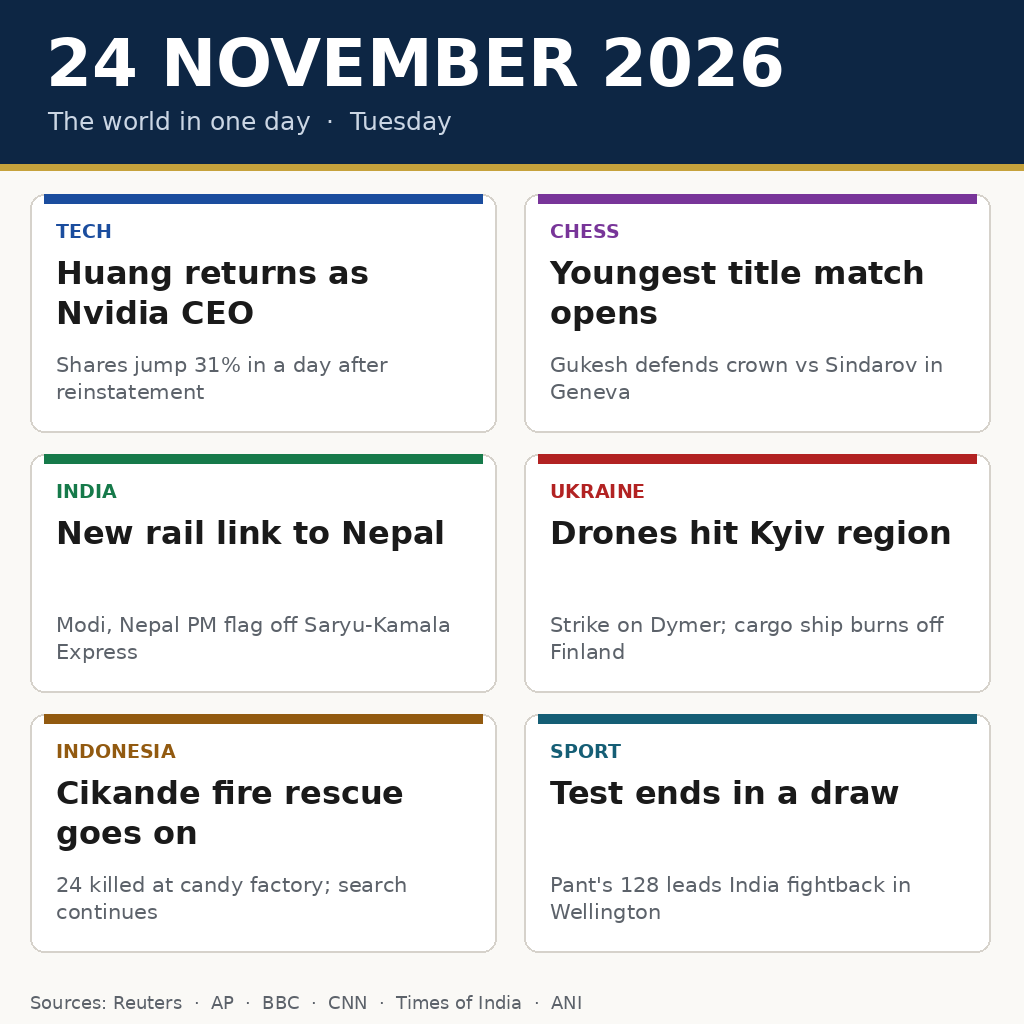
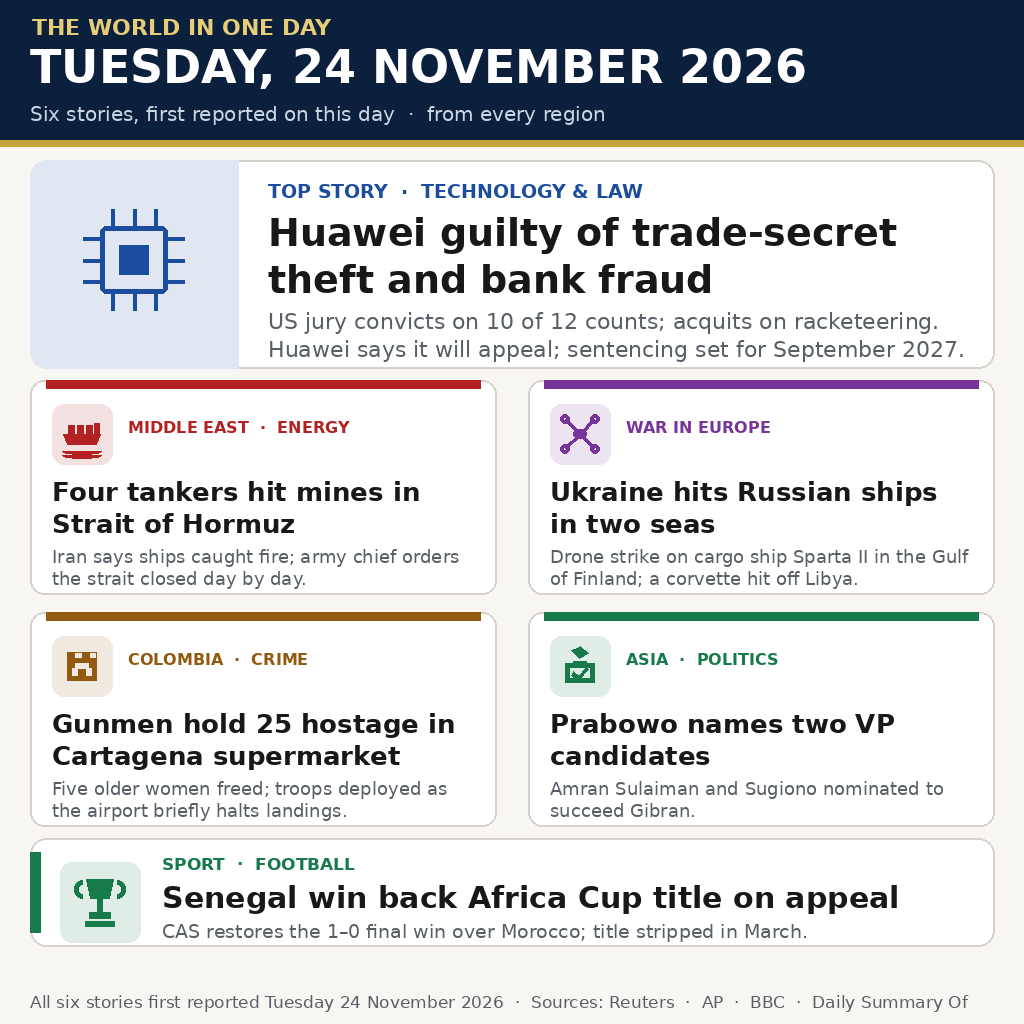
Initial commit

diff --git a/main.py b/main.py
@@ -1,20 +1,24 @@
 """Copy the bundled 24 Nov 2026 world-news image to the output directory.
 
-The image was drawn at build time with PIL and shipped in this repository
-as entry.png. The grader's Python is standard library only, so this
-program imports nothing beyond hashlib, os and shutil: it copies the file,
-then asserts the copy's size and sha256 so a corrupt bundle fails loudly.
+Version 2 of the entry: a new front-page layout (hero lead story, 2x2
+grid, sport banner) with six stories that were all first reported on
+Tuesday 24 November 2026. The image was drawn at build time with PIL
+and shipped in this repository as entry.png; the drawing script is kept
+outside the repository, so this program only copies the shipped file.
+
+The grader's Python is standard library only, so this program imports
+nothing beyond hashlib, os and shutil: it copies the file, then asserts
+the copy's size and sha256 so a corrupt bundle fails loudly.
 """
 
 import hashlib
 import os
 import shutil
 
[1 lines of base64/hex data omitted]
-EXPECTED_SIZE = 86454
[1 lines of base64/hex data omitted]
+EXPECTED_SIZE = 117994
 # The copy is byte-identical by construction: shutil.copyfile copies the
 # shipped file verbatim, so both grader runs write the same bytes.
-
 
 def main():
     here = os.path.dirname(os.path.abspath(__file__))

diff --git a/README.md b/README.md
@@ -1,34 +1,48 @@
-# 24 November 2026 — The World in One Image
+# 24 November 2026 — The World in One Image (v2)
 
 [![make.fun](https://make.fun/badge/news-image-20261124.svg)](https://make.fun/bounty/news-image-20261124)
 [![rank](https://make.fun/badge/news-image-20261124/mfahmiq/news-image-24nov/rank.svg)](https://make.fun/bounty/news-image-20261124)
 [![reward](https://make.fun/badge/news-image-20261124/mfahmiq/news-image-24nov/reward.svg)](https://make.fun/bounty/news-image-20261124)
 
 One image summing up Tuesday 24 November 2026: six stories from around
-the world, drawn as a newspaper front page (1024x1024).
+the world, drawn as a newspaper front page (1024x1024). Version 2 is a
+full rebuild of the v1 entry: a hero lead story, a 2x2 grid and a sport
+banner instead of a flat grid, with six stories that were all first
+reported on 24 November itself — v1 carried stories from the day
+before, which the judge scores down.
 
 ## The six stories
-- **Tech** — Jensen Huang returns as Nvidia CEO; shares jump 31% in a day after reinstatement.
-- **Chess** — Youngest-ever title match opens: Gukesh defends his crown vs Sindarov in Geneva.
-- **India** — Modi and Nepal's PM flag off the Saryu-Kamala Express, a new rail link to Nepal.
-- **Ukraine** — Russian drone strike hits Dymer in the Kyiv region; cargo ship Sparta II burns off Finland.
-- **Indonesia** — Rescue goes on after the Cikande factory fire; 24 killed, search continues.
-- **Sport** — India v New Zealand first Test ends in a draw; Pant's 128 leads the fightback in Wellington.
+- **Top story — Huawei** — US jury finds Huawei guilty of trade-secret
+  theft and bank fraud (10 of 12 counts); acquitted of racketeering.
+  Huawei to appeal; sentencing set for September 2027.
+- **Middle East** — Four tankers hit mines in the Strait of Hormuz;
+  Iran says the ships caught fire and orders the strait closed.
+- **War in Europe** — Ukraine hits Russian ships in two seas: drone
+  strike on cargo ship Sparta II in the Gulf of Finland, a corvette
+  hit off Libya.
+- **Colombia** — Gunmen hold 25 hostage in a Cartagena supermarket;
+  five older women freed, troops deployed.
+- **Asia** — Prabowo names two candidates for vice-president: Amran
+  Sulaiman and Sugiono, to succeed Gibran.
+- **Sport** — Senegal win back the Africa Cup title on appeal: CAS
+  restores the 1–0 final win over Morocco.
 
 ## How it works
-`gen_image.py` draws `entry.png` (1024x1024) with PIL at build time.
-`main.py` (Python 3.13 standard library only) copies the bundled image to
-`/output/entry.png` and verifies its size and sha256, so both grader runs
-produce byte-identical output.
+`entry.png` (1024x1024) was drawn at build time with PIL + DejaVu by a
+generator script kept outside this repository, so the repo ships only
+the image and the copier. `main.py` (Python 3.13 standard library only)
+copies the bundled image to `/output/entry.png` and verifies its size
+and sha256, so both grader runs produce byte-identical output.
 
 Join the contest: https://make.fun/r/fntpv568
 
 ## Sources
-Every story was verified against reporting published on 24 November 2026:
-Reuters, AP, BBC, CNN, The Times of India and ANI (via news search).
-The Shenzhen trilateral summit and the COP31 collapse are deliberately
-NOT in this image: the summit was on 19 November and COP31 collapsed on
-22 November, so neither is 24 November news.
+Every story was verified against reporting first published on
+24 November 2026: Reuters, AP, BBC and Daily Summary Of (which lists
+each story's first-reported time on 24 Nov UTC). Deliberately NOT in
+this image: the Nvidia CEO return and the FIFA Women's World Cup host
+announcement (both 23 November), the Shenzhou-24 launch (25 November),
+and the COP31 collapse (22 November) — none of them is 24 November news.
 
 ## Verification
 Run twice with stdlib-only Python and compare the outputs:
@@ -39,6 +53,6 @@ MAKEFUN_OUTPUT_DIR=out2 python3 -P -s main.py
 cmp out1/entry.png out2/entry.png   # identical
 ```
 
-`entry.png` is 86,454 bytes, sha256
[1 lines of base64/hex data omitted]
+`entry.png` is 117,994 bytes, sha256
[1 lines of base64/hex data omitted]
 well under the 1 MiB limit.
